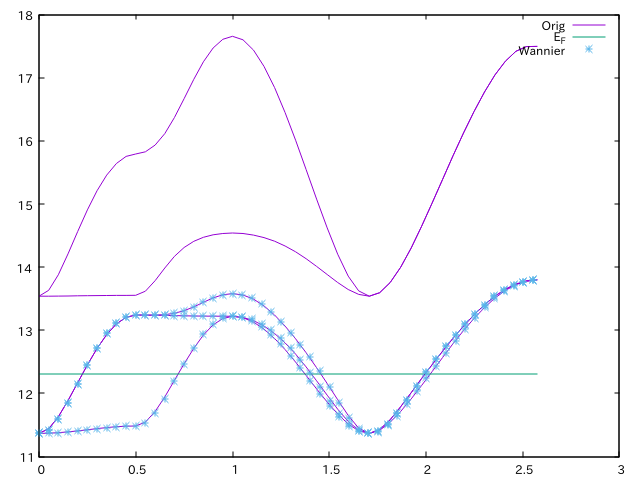
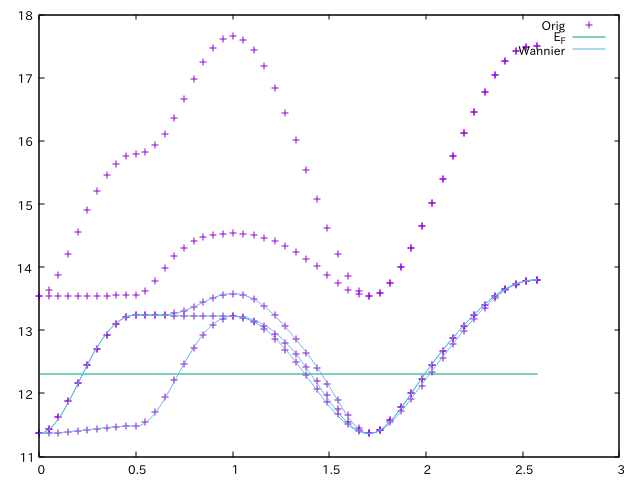
Do noot compute A(k,w) for bethe

diff --git a/python/pydmft_post.py b/python/pydmft_post.py
@@ -98,6 +98,8 @@ class DMFTCoreTools:
         #
         # Band structure
         #
+        if self._params["lattice"] == 'bethe': return
+        #
         if mpi.is_master_node(): print ("\n  @ Compute band structure\n")
         akw = SKT.spaghettis(broadening=self._broadening,plot_range=None,ishell=None,save_to_file=None)
         #

diff --git a/doc/tutorial/qe.rst b/doc/tutorial/qe.rst
@@ -121,7 +121,7 @@ First, we compute the band structure with the following input file:
 
 .. code-block:: gnuplot
 
-   plot [][11:18] "bands.out.gnu" u 1:2 w l tit "Orig", 12.3116 tit "E_F", "srvo3_band.dat" u ($1*0.6146):2 every 10 tit "Wannier"
+   plot [][11:18] "bands.out.gnu" u 1:2 w p tit "Orig", 12.3116 tit "E_F", "srvo3_band.dat" u ($1*0.6146):2 tit "Wannier" w l
 
 .. image:: qe/band_wan.png
    :width: 500
